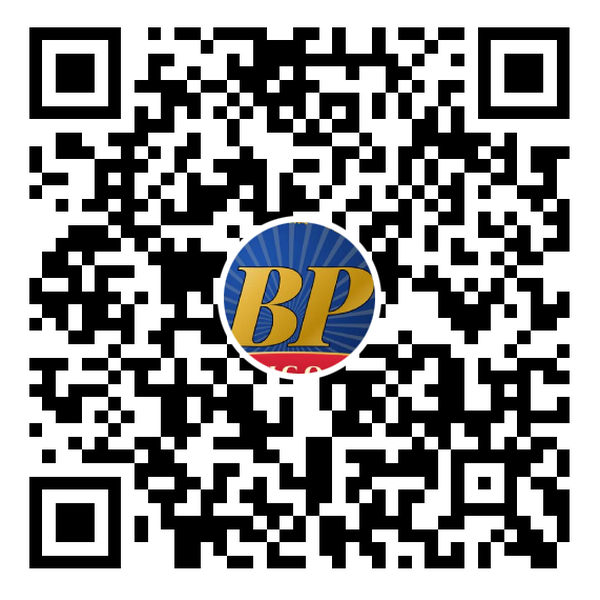
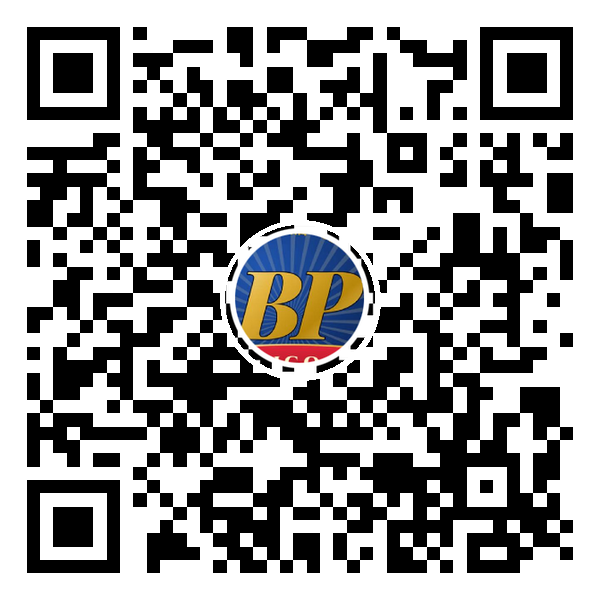
Payment: PayPay link from Binod + Pay with PayPay button; QR regenerated from that link
Claude-Session: https://claude.ai/code/session_01PLa6fhtu5tAWSwS8FQpqpj

diff --git a/index.html b/index.html
@@ -1496,7 +1496,7 @@ async function decStrip(src){const buf=new Uint8Array(await fetch(src).then(r=>r
    FBCONF stays null until Binod creates his Firebase project; then paste the config here.
    PAY.on stays false until Binod confirms price + free rules (locks are OFF meanwhile). */
 const FBCONF={apiKey:"AIzaSyDe-FSQzW7RaAMCAS81ghbBLYMI5kB-zzk",authDomain:"binod-paudel.firebaseapp.com",projectId:"binod-paudel",storageBucket:"binod-paudel.firebasestorage.app",messagingSenderId:"589004931560",appId:"1:589004931560:web:a7a205b8ef231749dbe45d"};/* public web config (not a secret) */
-const PAY={on:true,price:2000,cur:'¥',course:'JLPT N3',months:6,qr:'pay/qr.png',pp:'https://qr.paypay.ne.jp/p2p01_htOOOeFgxhhKfySh',link:''};/* link = Stripe Payment Link (card + konbini) once Binod creates it */
+const PAY={on:true,price:2000,cur:'¥',course:'JLPT N3',months:6,qr:'pay/qr.png',pp:'https://qr.paypay.ne.jp/p2p01_qBJtme3wtzK9CSCZ',link:''};/* link = Stripe Payment Link (card + konbini) once Binod creates it */
 const SIXM=()=>183*864e5;
 const tms=v=>v&&v.toMillis?v.toMillis():(+v||0);
 const untilOf=(p,c)=>{c=c||dxOf();return p?(c==='n3'?tms(p.paidUntil):tms((p.pu||{})[c])):0};
@@ -1680,7 +1680,7 @@ function renderPay(){
   if(!BE.ok||!BE.user){location.hash='#acc';return}
   shell('acc',`${ph('¥',at('payT'),PAYC()+' · '+PAY.cur+PAY.price.toLocaleString('en')+' · '+at('per6'))}
   ${PAY.link&&/^https:\/\/buy\.stripe\.com\//.test(PAY.link)?`<section class="card accbox"><b>💳 ${at('cardT')}</b><p class="muted" style="margin:0">${at('cardS')}</p><a class="btn grad" target="_blank" rel="noopener" href="${PAY.link}?client_reference_id=${encodeURIComponent(BE.user.uid)}${BE.user.email?'&prefilled_email='+encodeURIComponent(BE.user.email):''}">💳 ${at('cardB')}</a></section>`:''}
-  <section class="card accbox"><b>📱 PayPay</b><p>${at('payS')}</p><div class="qrbox"><a href="${PAY.pp||PAY.qr}" target="_blank" rel="noopener" title="PayPay"><img src="${PAY.qr}" alt="QR" onerror="this.replaceWith(Object.assign(document.createElement('p'),{className:'muted',textContent:'${at('noqr')}'}))"></a></div>
+  <section class="card accbox"><b>📱 PayPay</b><p>${at('payS')}</p><div class="qrbox"><a href="${PAY.pp||PAY.qr}" target="_blank" rel="noopener" title="PayPay"><img src="${PAY.qr}" alt="QR" onerror="this.replaceWith(Object.assign(document.createElement('p'),{className:'muted',textContent:'${at('noqr')}'}))"></a></div>${PAY.pp?`<a class="btn grad" style="display:block;text-align:center;margin:10px auto 0;max-width:320px;background:#ff0033" target="_blank" rel="noopener" href="${PAY.pp}">📱 PayPay で払う · Pay with PayPay</a>`:''}
   <form id="payF" class="eform"><label>${at('method')}<select id="pyM"><option>PayPay</option><option>Bank transfer</option><option>eSewa / Khalti</option><option>Cash</option></select></label>
   <label>${at('txn')}<input id="pyT" maxlength="80"></label><label>${at('shot')}<input id="pyS" type="file" accept="image/*"></label><img id="pyPrev" class="pyprev" hidden alt="">
   <label>${at('note')}<input id="pyN" maxlength="200"></label><div class="err" id="pyE" role="alert"></div><button class="btn grad" id="pyB">${at('send')}</button></form></section>`);

diff --git a/sw.js b/sw.js
@@ -1,5 +1,5 @@
 // Offline cache: app shell + question data (books are not cached).
-const C='bp-v8';const CORE=['./','index.html','data.json','units.json','units-n5.json','data-n5.json','keys-n5.json','ex5-ne.json','ex5-en.json','units-n4.json','data-n4.json','keys-n4.json','ex4-ne.json','ex4-en.json','ex-ne.json','ex-en.json','icon-192.png'];
+const C='bp-v9';const CORE=['./','index.html','data.json','units.json','units-n5.json','data-n5.json','keys-n5.json','ex5-ne.json','ex5-en.json','units-n4.json','data-n4.json','keys-n4.json','ex4-ne.json','ex4-en.json','ex-ne.json','ex-en.json','icon-192.png'];
 self.addEventListener('install',e=>{e.waitUntil(caches.open(C).then(c=>c.addAll(CORE)).then(()=>self.skipWaiting()))});
 self.addEventListener('activate',e=>{e.waitUntil(caches.keys().then(ks=>Promise.all(ks.filter(k=>k!==C).map(k=>caches.delete(k)))).then(()=>self.clients.claim()))});
 self.addEventListener('fetch',e=>{const u=new URL(e.request.url);if(e.request.method!=='GET'||u.origin!==location.origin||u.pathname.includes('/books/'))return;
